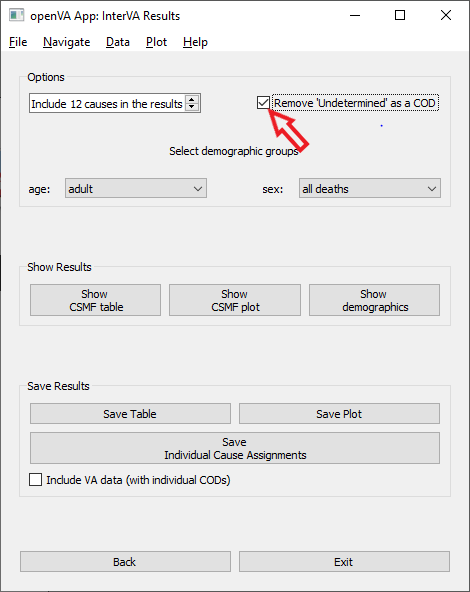
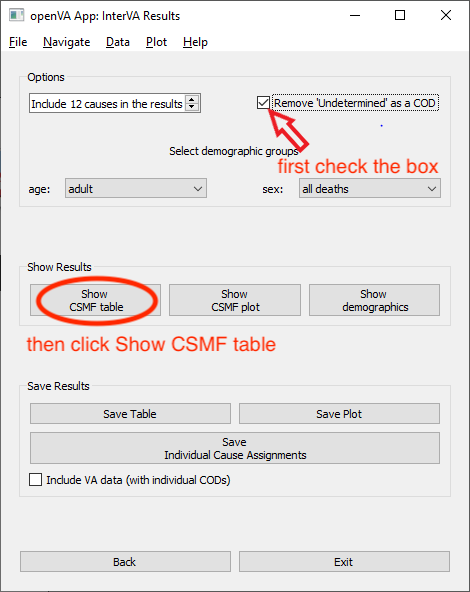
finished vignette for docs

Changed region(s): [[0.0596, 0.4561, 0.5957, 0.6081], [0.5957, 0.2736, 0.9532, 0.3041]]

diff --git a/docs/source/vignette.rst b/docs/source/vignette.rst
@@ -110,48 +110,74 @@ to assign causes of death to the example data set included with the openVA App.
    .. image:: img/vignette_interva_dem_tab.png
 
 
-#.  **Select age group and # of top causes**
+#. **Select age group and # of top causes**: In our next step, we will focus on the CSMF for adults by clicking on the
+   option box for "age" and select `adult`.
 
    .. image:: img/vignette_interva_select_adults.png
 
+   Since there are only 66 adults, we will start by limiting our analysis to the top 3 causes in the CSMF.  To do so,
+   locate the box in the "Options" panel with the text "Include 5 causes in the results".  Click on the down arrow to
+   reduce the number of top causes from 5 to 3.
 
    .. image:: img/vignette_interva_ntop.png
 
-#.
+#. **Look at the CSMF plot**: Now let us take a look at the CSMF plot by clicking on the "Show CSMF plot" button in the
+   "Show Results" panel.
+
    .. image:: img/vignette_interva_show_plot.png
 
-#.
+   The openVA App will produce a new window with a bar chart of the top 3 causes.  Note how the title includes the
+   demographic group we are focusing on.  Over 17.5% of the adult deaths were due to Acute respiratory infections,
+   including pneumonia, while about 15% were HIV/AIDS related deaths, and about 11% of adult deaths were caused by
+   acute cardiac disease.
 
    .. image:: img/vignette_interva_csmf.png
 
-#.
+#. **Select more causes and view the CSMF table**: Although we do not have a lot of information (only 66 adult deaths),
+   let's increase the number of deaths to 12 so we can illustrate another feature of the openVA App.
 
    .. image:: img/vignette_interva_ntop_12.png
 
-#.
+   Next, note how the box next to the label "Remove 'Undetermined' as a COD" is NOT checked.  Thus, when we look at the
+   CSMF table, it is possible to have `Undetermined` included as a cause.  To see this, click on the "Show CSMF table"
+   button in the middle panel of the window.
 
    .. image:: img/vignette_interva_show_tab.png
 
-#.
+   Note that the tenth row of the table is `Undetermined` which applies to about 3% of adult deaths.  Again, to close
+   this window, simply click on the "X" in the top right corner of the window with the CSMF table.
 
    .. image:: img/vignette_interva_tab_with_undet.png
 
-#.
+#. **Remove Undetermined as a cause**:  Now, let's see another version of the results by clicking in the checkbox next
+   to the label "Remove 'Undetermined' as a COD".  Next, repeat the previous step to display the CSMF summary by
+   clicking on the "Show CSMF table" button in the "Show Results" panel.
 
    .. image:: img/vignette_interva_check_no_undet.png
 
-#.
+   In the new window displaying the CSMF table, we now see a new cause, Assault, that is now included in the top 12
+   causes of the CSMF because `Undetermined` has been removed.  To close this window, simply click on the "X" in the
+   top right corner of the window with the CSMF table.
 
    .. image:: img/vignette_interva_tab_no_undet.png
 
-#.
+#. **Save the individual cause assignments with VA data**: In the final steps, we will merge the original VA data to
+   the individual causes assigned by InterVA, and then save the results as a CSV file.  To do this, first click in the
+   checkbox located at the bottom of the "Save Results" panel.  As the label states, this will
+   "Include VA data (with individual CODs)".  Next, click on the button "Save Individual Cause Assignments", which will
+   produce a new window where you can choose where to save the results as a CSV file.  Note that the default file name
+   is "interva_adult_individual_cod.csv" indicating that these results will only include the 66 cause assignments for
+   the adults.
 
    .. image:: img/vignette_interva_save_data.png
 
-#.
+   The results, when opened in a spreadsheet program, should look like the following screenshot.  You should verify
+   that the values in the meta-InstanceID column match the ID column in the saved file.
 
    .. image:: img/vignette_interva_indiv.png
 
+Congratulations!  You have finished the tour of the openVA App and are hopefully ready to begin analyzing your own
+data.
 
 ===================  ==================================  =================================  ================
 :doc:`Home <index>`  :doc:`One-Click (Wizard) <wizard>`  :doc:`Customizable Mode <custom>`  :doc:`FAQ <faq>`
